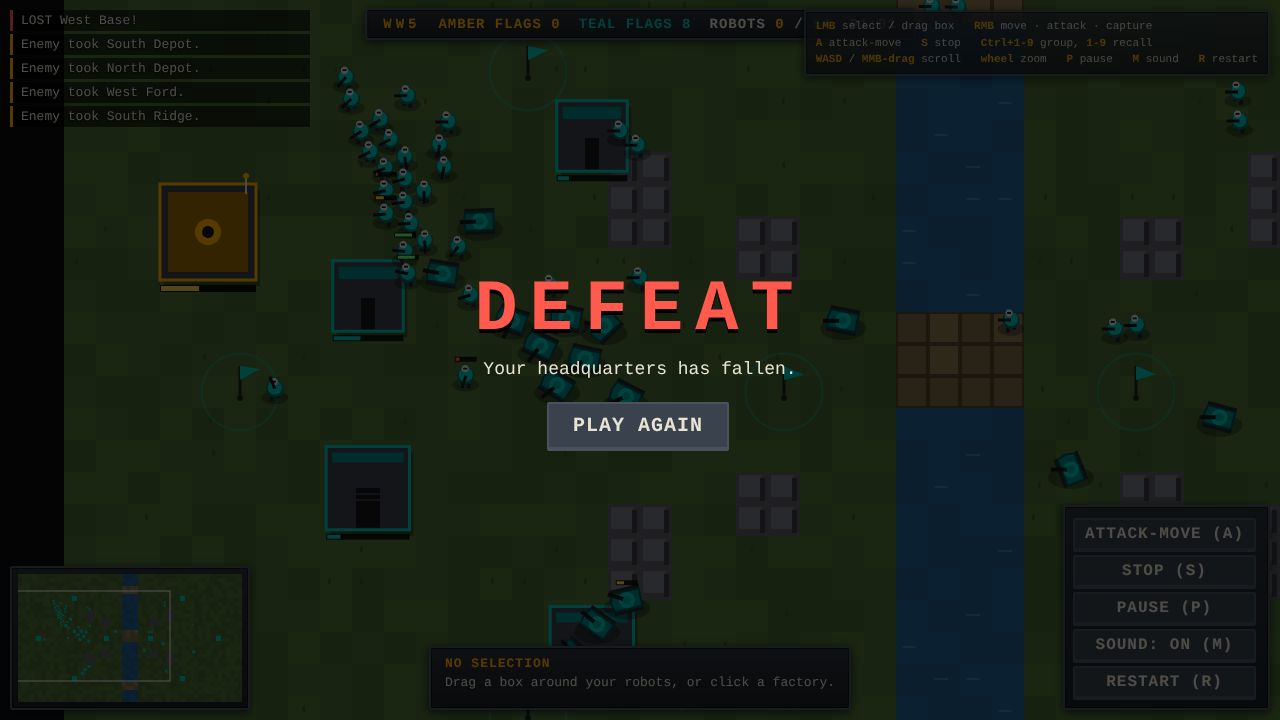
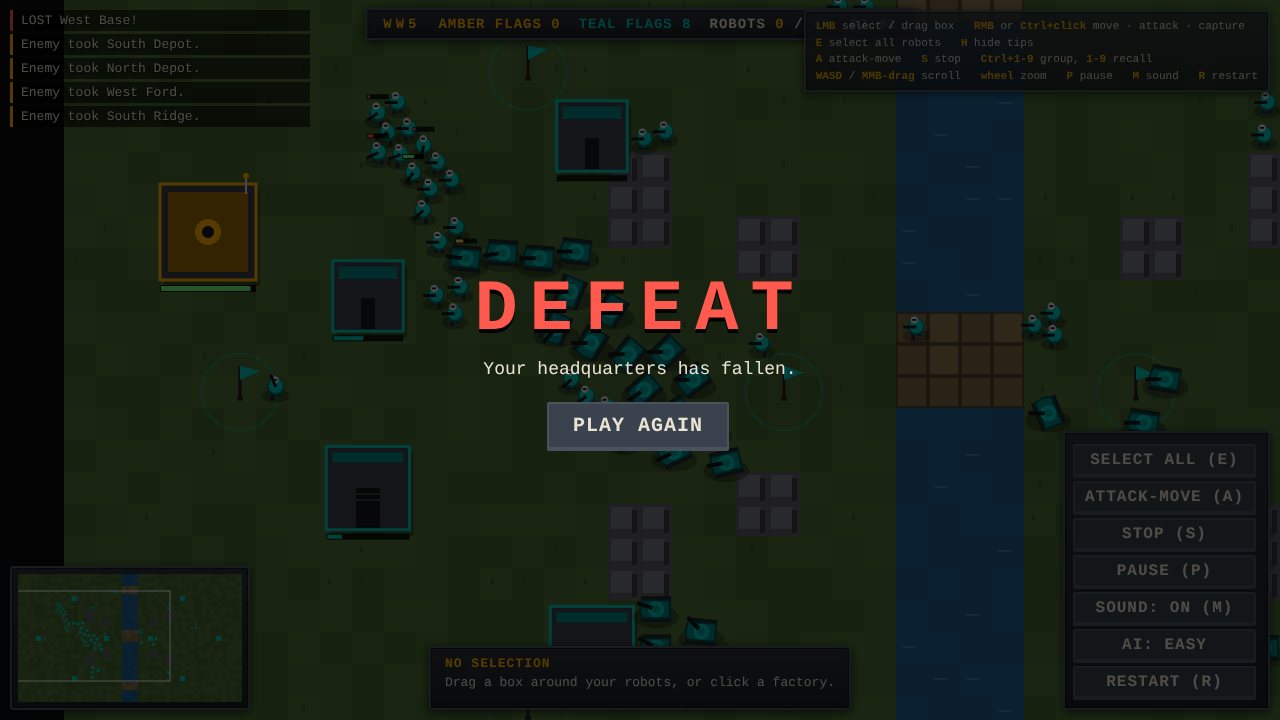
Make the game learnable: AI difficulty levels, step-by-step coach, select-all, Ctrl+click
Easy is the default (AI waits 60 s, attacks in waves of 12). Adds a human-style
policy script to measure win rates, and browser checks for the new controls.

Claude-Session: https://claude.ai/code/session_01CgZDST9TwiPSCrQ5buL1da

diff --git a/src/render/battle.ts b/src/render/battle.ts
@@ -2,7 +2,7 @@ import Phaser from 'phaser';
 import { T_BRIDGE, T_GRASS, T_ROCK, T_WATER } from '../data/maps';
 import { BUILDINGS, TICKS_PER_SEC, UNITS } from '../data/units';
 import { Sfx } from '../audio/sfx';
-import { Match } from '../sim/match';
+import { Match, type Difficulty } from '../sim/match';
 import type { Building, Unit } from '../sim/types';
 
 const TS = 32;
@@ -38,6 +38,14 @@ export class BattleScene extends Phaser.Scene {
   private hudTimer = 0;
   private panelKey = '';
   private sfx = new Sfx();
+  /** AI level: ?ai=easy|normal|hard in the URL, default easy so new players can learn */
+  private difficulty: Difficulty = ((): Difficulty => {
+    const v = new URLSearchParams(location.search).get('ai');
+    return v === 'normal' || v === 'hard' ? v : 'easy';
+  })();
+  private orderIssued = false;
+  private myCaptures = 0;
+  private coachOn = true;
   private miniTerrain!: HTMLCanvasElement;
   private ended = false;
 
@@ -67,6 +75,12 @@ export class BattleScene extends Phaser.Scene {
     window.addEventListener('pointerdown', unlock);
     window.addEventListener('keydown', unlock);
     $('b-mute').onclick = () => this.toggleMute();
+    $('b-all').onclick = () => this.selectAll();
+    $('b-diff').onclick = () => {
+      const order: Difficulty[] = ['easy', 'normal', 'hard'];
+      this.difficulty = order[(order.indexOf(this.difficulty) + 1) % 3];
+      this.restart();
+    };
 
     $('b-attack').onclick = () => this.armAttack();
     $('b-stop').onclick = () => this.stopSel();
@@ -102,7 +116,10 @@ export class BattleScene extends Phaser.Scene {
   // ------------------------------------------------------------ lifecycle
 
   private newMatch() {
-    this.match = new Match(this.seed, [1]);
+    this.match = new Match(this.seed, [1], this.difficulty);
+    this.orderIssued = false;
+    this.myCaptures = 0;
+    $('b-diff').textContent = `AI: ${this.difficulty.toUpperCase()}`;
     this.sel.clear();
     this.selBuilding = null;
     this.groups.clear();
@@ -124,6 +141,11 @@ export class BattleScene extends Phaser.Scene {
     this.seed++;
     this.newMatch();
   }
+  private selectAll() {
+    this.sel = new Set(this.match.world.unitsOf(PLAYER).map((u) => u.id));
+    this.selBuilding = null;
+  }
+
   private toggleMute() {
     this.sfx.setMuted(!this.sfx.muted);
     $('b-mute').textContent = this.sfx.muted ? 'Sound: OFF (M)' : 'Sound: ON (M)';
@@ -147,7 +169,12 @@ export class BattleScene extends Phaser.Scene {
 
   private onKey(e: KeyboardEvent) {
     const k = e.key.toLowerCase();
-    if (/^[1-9]$/.test(k)) {
+    if ((e.ctrlKey || e.metaKey) && k === 'a') {
+      e.preventDefault();
+      this.selectAll();
+    } else if (k === 'e') this.selectAll();
+    else if (k === 'h') this.coachOn = !this.coachOn;
+    else if (/^[1-9]$/.test(k)) {
       const n = Number(k);
       if (e.ctrlKey || e.metaKey) {
         e.preventDefault();
@@ -180,6 +207,12 @@ export class BattleScene extends Phaser.Scene {
 
   private onDown(p: Phaser.Input.Pointer) {
     if (this.ended) return;
+    const ev = p.event as MouseEvent | undefined;
+    // Ctrl/Cmd+click = right-click, for laptops and trackpads without a right button
+    if (p.button === 0 && (ev?.ctrlKey || ev?.metaKey) && this.sel.size) {
+      this.rightClick(p.worldX / TS, p.worldY / TS);
+      return;
+    }
     if (p.button === 0) {
       this.dragStart = this.pt(p);
       this.dragNow = this.dragStart;
@@ -259,6 +292,7 @@ export class BattleScene extends Phaser.Scene {
   private marker(x: number, y: number, color: number) {
     this.fx.push({ x, y, ttl: 700, life: 700, color, kind: 'marker' });
     this.sfx.command();
+    this.orderIssued = true;
   }
 
   // --------------------------------------------------------------- update
@@ -313,6 +347,7 @@ export class BattleScene extends Phaser.Scene {
         const mine = e.owner === PLAYER;
         const lost = e.prev === PLAYER;
         if (mine || lost) this.sfx.capture(mine);
+        if (mine) this.myCaptures++;
         this.feed(mine ? `Captured ${t.name}.` : lost ? `LOST ${t.name}!` : `Enemy took ${t.name}.`, mine ? 'won' : lost ? 'lost' : '');
       } else if (e.t === 'victory') {
         this.ended = true;
@@ -347,6 +382,20 @@ export class BattleScene extends Phaser.Scene {
     $('u-foe').textContent = String(w.unitsOf(1).length);
     const s = Math.floor(w.tick / TICKS_PER_SEC);
     $('clock').textContent = `${String(Math.floor(s / 60)).padStart(2, '0')}:${String(s % 60).padStart(2, '0')}`;
+
+    // Step-by-step coach: always tells a new player the next useful thing to do (H hides it).
+    const mineN = w.unitsOf(0).length;
+    let tip = '';
+    if (!this.coachOn || this.ended) tip = '';
+    else if (mineN === 0) tip = 'Your factories are building your first robots. Hang on a few seconds...';
+    else if (!this.orderIssued && !this.sel.size) tip = 'STEP 1 — Select your robots: drag a box around the amber robots, or press E.';
+    else if (!this.orderIssued) tip = 'STEP 2 — Right-click (or Ctrl+click) a grey flag. Rifle robots will go and capture it.';
+    else if (this.myCaptures === 0) tip = 'Captured flags give you their factories and speed up production. Send robots to every flag!';
+    else if (mineN < 8) tip = 'STEP 3 — Capture more flags, and let your army grow to 8+ robots before attacking.';
+    else tip = 'STEP 4 — Press E, then A and click the teal base in the east. Keep new robots coming. (H hides tips)';
+    const coach = $('coach');
+    coach.style.display = tip ? 'block' : 'none';
+    if (tip && coach.textContent !== tip) coach.textContent = tip;
 
     // The panel is only re-rendered when its structure changes, so buttons stay clickable between frames.
     const panel = $('sel');

diff --git a/index.html b/index.html
@@ -32,6 +32,7 @@
       button { font: inherit; font-weight: bold; text-transform: uppercase; letter-spacing: 1px; color: var(--ink); background: #3a424d; border: 2px solid var(--edge); border-bottom-width: 4px; padding: 5px 10px; margin: 3px 4px 0 0; cursor: pointer; border-radius: 2px; }
       button:hover { background: #4b5563; color: var(--amber); } button:active { border-bottom-width: 2px; transform: translateY(2px); }
       #btns { position: absolute; right: 10px; bottom: 10px; padding: 8px; display: flex; flex-direction: column; }
+      #coach { position: absolute; bottom: 92px; left: 50%; transform: translateX(-50%); max-width: 640px; padding: 8px 16px; font-size: 14px; font-weight: bold; color: #fff3c4; text-align: center; border-color: var(--amber); }
       #feed { position: absolute; left: 10px; top: 10px; width: 300px; font-size: 13px; text-shadow: 0 1px 2px #000; }
       #feed div { background: #0009; border-left: 3px solid var(--amber); padding: 3px 8px; margin-bottom: 3px; }
       #feed div.lost { border-color: #ff5a4d; } #feed div.won { border-color: #6dff7a; }
@@ -52,19 +53,23 @@
         <span>ROBOTS <span id="u-you" class="you">0</span> / <span id="u-foe" class="foe">0</span></span>
         <span id="clock">00:00</span>
       </div>
+      <div id="coach" class="panel"></div>
       <div id="feed"></div>
       <div id="help" class="panel">
-        <b>LMB</b> select / drag box &nbsp; <b>RMB</b> move · attack · capture<br />
+        <b>LMB</b> select / drag box &nbsp; <b>RMB</b> or <b>Ctrl+click</b> move · attack · capture<br />
+        <b>E</b> select all robots &nbsp; <b>H</b> hide tips<br />
         <b>A</b> attack-move &nbsp; <b>S</b> stop &nbsp; <b>Ctrl+1-9</b> group, <b>1-9</b> recall<br />
         <b>WASD</b> / <b>MMB-drag</b> scroll &nbsp; <b>wheel</b> zoom &nbsp; <b>P</b> pause &nbsp; <b>M</b> sound &nbsp; <b>R</b> restart
       </div>
       <div id="minimap-wrap" class="panel"><canvas id="minimap" width="224" height="128"></canvas></div>
       <div id="sel" class="panel"><div class="h">NO SELECTION</div>Drag a box around your robots, or click a factory.</div>
       <div id="btns" class="panel">
+        <button id="b-all">Select all (E)</button>
         <button id="b-attack">Attack-move (A)</button>
         <button id="b-stop">Stop (S)</button>
         <button id="b-pause">Pause (P)</button>
         <button id="b-mute">Sound: ON (M)</button>
+        <button id="b-diff">AI: EASY</button>
         <button id="b-restart">Restart (R)</button>
       </div>
       <div id="end"><h1 id="end-title"></h1><p id="end-sub"></p><button id="end-btn">Play again</button></div>

diff --git a/src/sim/match.ts b/src/sim/match.ts
@@ -2,6 +2,15 @@ import { SimpleCommander } from '../ai/commander';
 import { buildFrontline } from '../data/maps';
 import { World } from './world';
 
+export type Difficulty = 'easy' | 'normal' | 'hard';
+
+/** AI tuning per level: think interval (ticks), attack wave size, opening delay (ticks). No hidden bonuses. */
+export const DIFFICULTY: Record<Difficulty, { interval: number; wave: number; delay: number }> = {
+  easy: { interval: 100, wave: 12, delay: 20 * 60 },
+  normal: { interval: 60, wave: 8, delay: 20 * 25 },
+  hard: { interval: 40, wave: 6, delay: 0 },
+};
+
 /** A world plus the AI commanders that drive it. Headless-safe: used by the game, tests and batch runner. */
 export class Match {
   readonly world: World;
@@ -9,9 +18,11 @@ export class Match {
   constructor(
     readonly seed: number,
     aiSides: number[] = [1],
+    readonly difficulty: Difficulty = 'hard',
   ) {
+    const d = DIFFICULTY[difficulty];
     this.world = new World(buildFrontline(), seed);
-    this.commanders = aiSides.map((s) => new SimpleCommander(s, 40, s * 20));
+    this.commanders = aiSides.map((s) => new SimpleCommander(s, d.interval, s * 20 % d.interval, d.wave, d.delay));
   }
   step() {
     if (this.world.winner === null) for (const c of this.commanders) c.update(this.world);

diff --git a/scripts/human.ts b/scripts/human.ts
@@ -1,0 +1,22 @@
+// How does a sensible human-style player fare against each AI level? (same capture-then-mass policy a person would use,
+// reacting once per second, massing 12 robots before attacking)
+import { SimpleCommander } from '../src/ai/commander';
+import { DIFFICULTY, Match, type Difficulty } from '../src/sim/match';
+
+const N = Number(process.argv[2] ?? 40);
+for (const level of ['easy', 'normal', 'hard'] as Difficulty[]) {
+  let wins = 0, losses = 0, other = 0;
+  const secs: number[] = [];
+  for (let seed = 1; seed <= N; seed++) {
+    const m = new Match(seed, [1], level);
+    const human = new SimpleCommander(0, 20, 0, 12, 0);
+    for (let t = 0; t < 20 * 60 * 20 && m.world.winner === null; t++) {
+      human.update(m.world);
+      m.step();
+    }
+    const w = m.world.winner;
+    if (w === 0) { wins++; secs.push(m.world.tick / 20); } else if (w === 1) losses++; else other++;
+  }
+  secs.sort((a, b) => a - b);
+  console.log(level.padEnd(7), `human wins ${wins}/${N}`, `losses ${losses}`, `unfinished ${other}`, secs.length ? `median win ${Math.round(secs[secs.length >> 1])}s` : '', JSON.stringify(DIFFICULTY[level]));
+}

diff --git a/src/ai/commander.ts b/src/ai/commander.ts
@@ -13,10 +13,12 @@ export class SimpleCommander {
     readonly interval = 40,
     readonly offset = 0,
     readonly waveSize = 6,
+    /** ticks to wait before giving any order (a slower opening for easier levels) */
+    readonly startDelay = 0,
   ) {}
 
   update(w: World) {
-    if (w.tick % this.interval !== this.offset) return;
+    if (w.tick < this.startDelay || w.tick % this.interval !== this.offset) return;
     const mine = w.unitsOf(this.side);
     const assigned = new Map<number, number>();
     for (const u of mine) {

diff --git a/README.md b/README.md
@@ -18,7 +18,8 @@ npm run build && npm run preview &   # production build on :4173
 node scripts/e2e.cjs                 # browser play test (needs Playwright + the preview server)
 ```
 
-Add `?speed=4` to the URL to run the simulation faster.
+Add `?speed=4` to the URL to run the simulation faster. The AI level is Easy by default; use the **AI** button, or `?ai=normal` / `?ai=hard`.
+Measured with a human-style scripted player (`npx vite-node scripts/human.ts 40`): Easy 40/40 wins, Normal 40/40, Hard 20/40.
 
 ## Deploy (GitHub Pages / any static host)
 
@@ -30,7 +31,9 @@ Add `?speed=4` to the URL to run the simulation faster.
 |---|---|
 | Left-click / drag | Select robot / box-select |
 | Click a factory | Select it, then pause or resume its production |
-| Right-click | Move, attack an enemy or HQ, or capture a flag (by what is under the cursor) |
+| Right-click, or **Ctrl+click** (no right button needed) | Move, attack an enemy or HQ, or capture a flag (by what is under the cursor) |
+| E or Ctrl+A | Select all your robots |
+| H | Hide or show the step-by-step tips |
 | A, then click | Attack-move |
 | S | Stop |
 | Ctrl+1-9 / 1-9 | Save / recall a control group |
